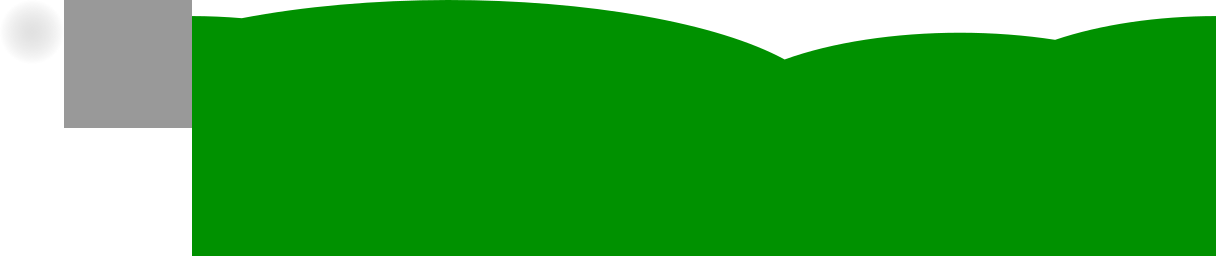
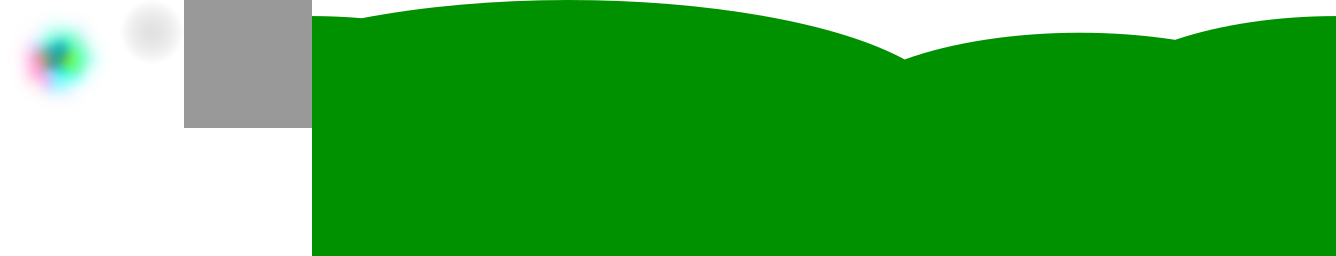
Domino bg

Changed region(s): [[0.0, 0.0, 0.9688, 1.0]]

diff --git a/src/play.js b/src/play.js
@@ -6,15 +6,29 @@ var playState = {
 
         game.stage.backgroundColor = 0x19aeff;
 
-        dominos = [];
+        dominos = [];    
+        dominogroup = game.add.group();    
+        this.towergroup = game.add.group();    
 
         for (var i = 0; i < 6; i += 1) {
             dominos[i] = game.add.button(144 + i * 128, 32, '', this.put, this);
+            dominogroup.add(dominos[i]);
             var n = game.rnd.integerInRange(0, 5);
             dominos[i].addChild(game.make.image(0, 0, 'tiles', n)).data = n;
             n = game.rnd.integerInRange(0, 5);
             dominos[i].addChild(game.make.image(0, 96, 'tiles', n)).data = n;
             this.fly(dominos[i]);
+            dominos[i].emitter = game.add.emitter(
+                dominos[i].x + 48, 
+                dominos[i].y + 192, 
+                50
+            );
+            dominos[i].emitter.makeParticles('atlas', 'dominobg.png');
+            dominos[i].emitter.setAngle(0, 360)
+            //dominos[i].emitter.setAlpha(0.5, 0.7);
+            dominos[i].emitter.setScale(1.5, 1.5, 1.5, 1.5);
+            dominos[i].emitter.gravity = -200;
+            dominos[i].emitter.start(false, 1500, 100);
         }
         game.world.setBounds(0, -9000, 10000, 9576);
         game.add.image(1024 / 2 - 64, 448, 'atlas', 'foundation.png');
@@ -28,7 +42,7 @@ var playState = {
         game.next = -1;
         game.towers = 0;
 
-       
+        game.world.bringToTop(dominogroup);
     },
     
     put: function (domino) {
@@ -52,7 +66,6 @@ var playState = {
         game.newTower = true;
         for (var i = 0; i < 6; i += 1) {
             if (dominos[i].children[1].data === game.next) {
-                //dominos[i].children[1].frame += 6;
                 game.newTower = false;
             }
         }
@@ -65,16 +78,24 @@ var playState = {
                     x: "+192",
                     y: 32
                 }, 1000, Phaser.Easing.Cubic.Out, true).onComplete.add(this.fly);
+                game.add.tween(dominos[i].emitter).to({
+                    x: "+192",
+                    y: 224
+                }, 1000, Phaser.Easing.Cubic.Out, true);
             } else {
                 game.add.tween(dominos[i]).to({
                     y: y
                 }, 1000, Phaser.Easing.Cubic.Out, true).onComplete.add(this.fly);
+                game.add.tween(dominos[i].emitter).to({
+                    y: y + 192
+                }, 1000, Phaser.Easing.Cubic.Out, true);
             }
         }
         game.add.tween(toPut).to({
             x: 464 + game.towers * 192,
             y: game.top
         }, 200, Phaser.Easing.Cubic.In, true).onComplete.add(this.dust);
+        this.towergroup.add(toPut);
     
     },
 
@@ -145,6 +166,5 @@ var playState = {
         } else if (cursors.right.isDown) {
             game.camera.x += 10;
         }
-
     }
 }
